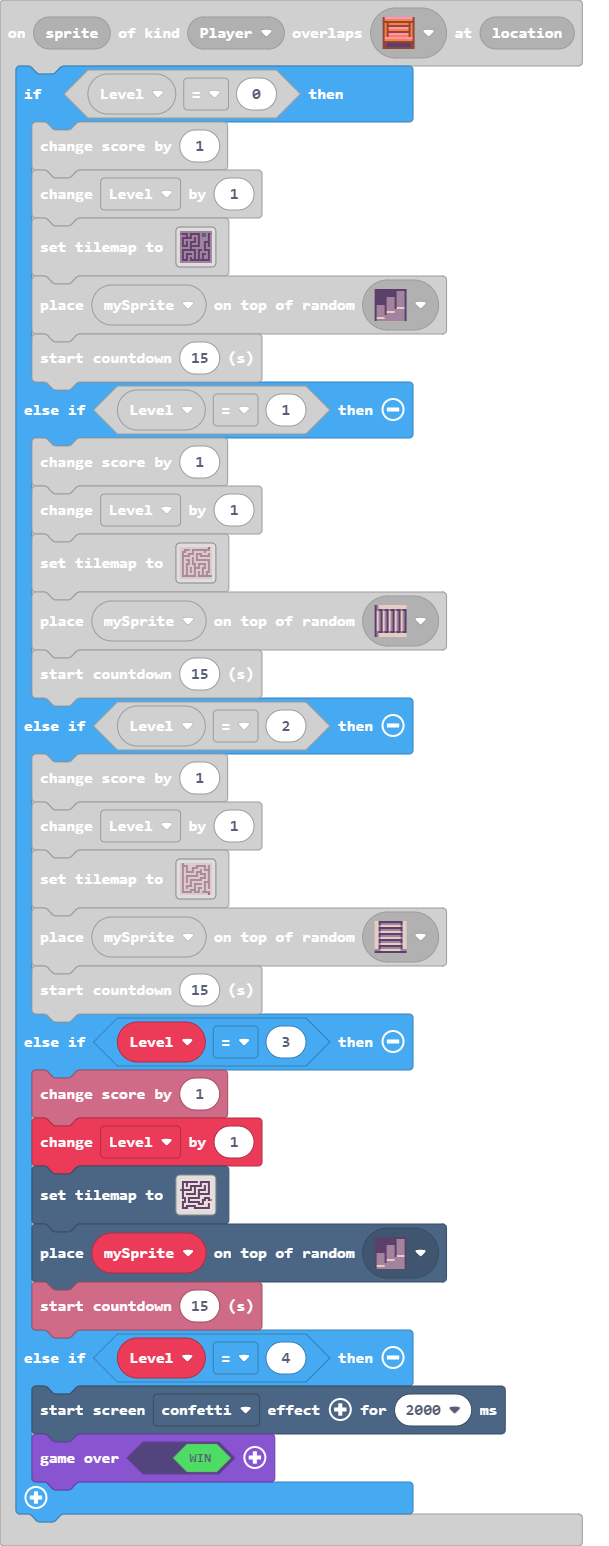
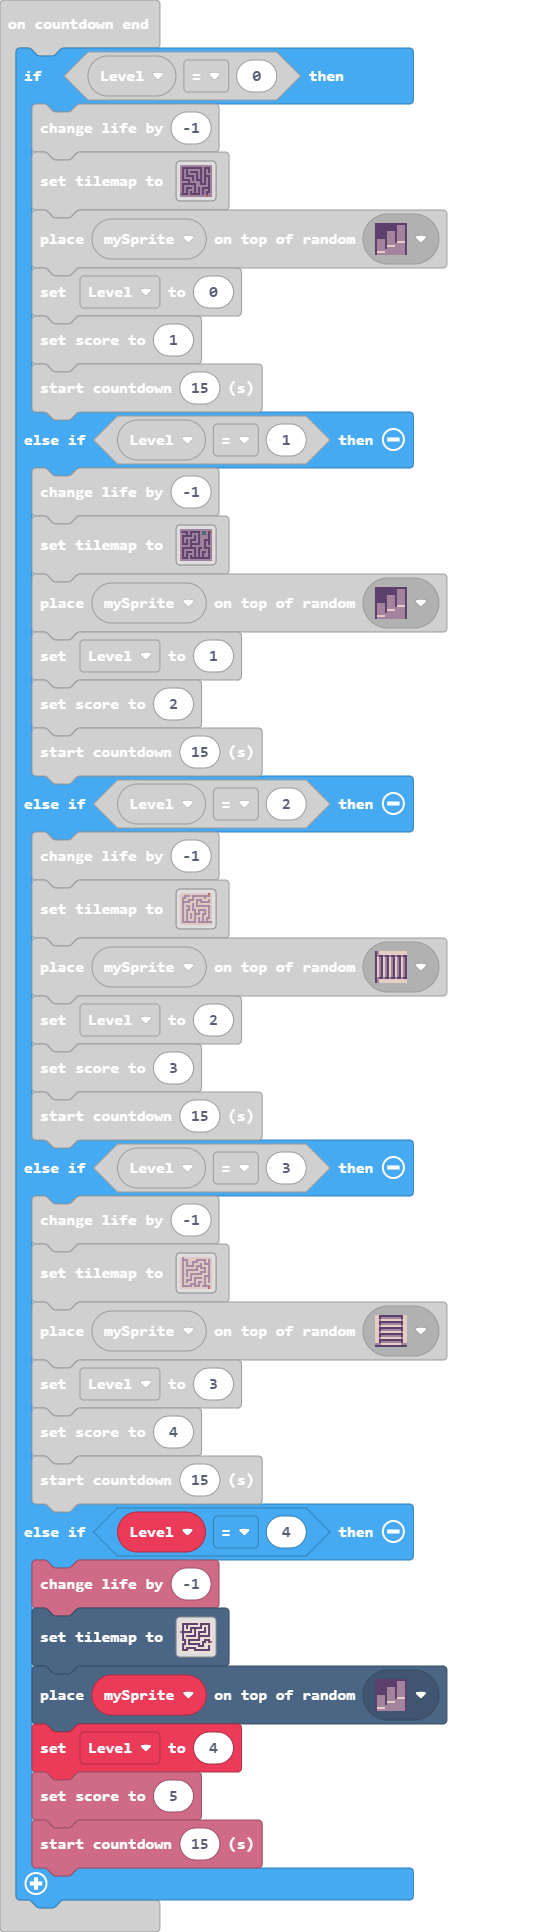
Update main.blocks, main.ts, tilemap.g.jres, tilemap.g.ts

diff --git a/tilemap.g.ts b/tilemap.g.ts
@@ -237,6 +237,25 @@ namespace myTiles {
 2 . . . 2 2 2 . . . . . . . . 2 
 2 2 2 2 2 2 2 2 2 2 2 2 2 2 2 2 
 `, [myTiles.transparency16,sprites.builtin.brick,sprites.dungeon.darkGroundCenter,sprites.dungeon.stairLarge,sprites.dungeon.stairLadder], TileScale.Sixteen);
+            case "level13":
+            case "level13":return tiles.createTilemap(hex`1000100000000000000000000000000000000000000000000000000000000000000000000000000000000000000000000000000000000000000000000000000000000000000000000000000000000000000000000000000000000000000000000000000000000000000000000000000000000000000000000000000000000000000000000000000000000000000000000000000000000000000000000000000000000000000000000000000000000000000000000000000000000000000000000000000000000000000000000000000000000000000000000000000000000000000000000000000000000000000000000000000000000000000000000000000000000000`, img`
+. . . . . . . . . . . . . . . . 
+. . . . . . . . . . . . . . . . 
+. . . . . . . . . . . . . . . . 
+. . . . . . . . . . . . . . . . 
+. . . . . . . . . . . . . . . . 
+. . . . . . . . . . . . . . . . 
+. . . . . . . . . . . . . . . . 
+. . . . . . . . . . . . . . . . 
+. . . . . . . . . . . . . . . . 
+. . . . . . . . . . . . . . . . 
+. . . . . . . . . . . . . . . . 
+. . . . . . . . . . . . . . . . 
+. . . . . . . . . . . . . . . . 
+. . . . . . . . . . . . . . . . 
+. . . . . . . . . . . . . . . . 
+. . . . . . . . . . . . . . . . 
+`, [myTiles.transparency16], TileScale.Sixteen);
         }
         return null;
     })

diff --git a/main.ts b/main.ts
@@ -57,8 +57,13 @@ info.onCountdownEnd(function () {
         Level = 3
         info.setScore(4)
         info.startCountdown(15)
-    } else if (false) {
-    	
+    } else if (Level == 4) {
+        info.changeLifeBy(-1)
+        tiles.setTilemap(tilemap`level12`)
+        tiles.placeOnRandomTile(mySprite, sprites.dungeon.stairLarge)
+        Level = 4
+        info.setScore(5)
+        info.startCountdown(15)
     }
 })
 info.onLifeZero(function () {
